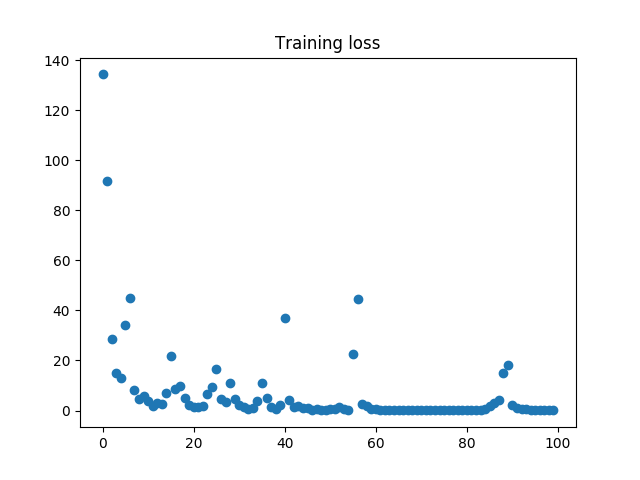
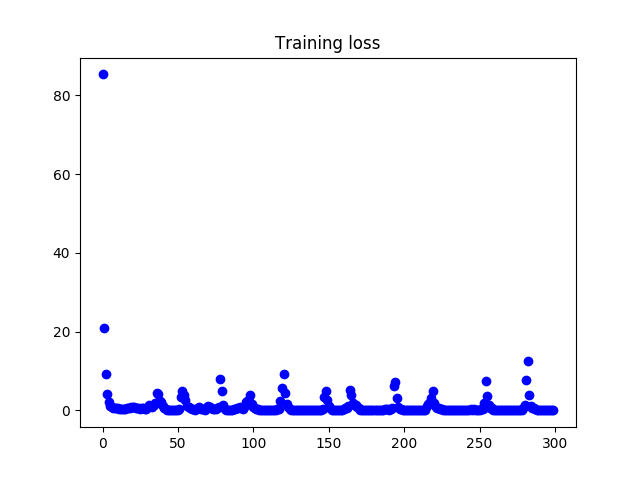
Tweaked normalization

diff --git a/Algorithms/ratings_net.py b/Algorithms/ratings_net.py
@@ -2,8 +2,8 @@
 import sys
 import tensorflow as tf
 import numpy as np
-from scipy.stats import invgauss
-from scipy.special import erfc
+# from scipy.stats import norm
+from scipy.special import erfc, erfcinv
 from util import loadJSONForNet as loadJSON
 from matplotlib import pyplot as plt
 
@@ -13,7 +13,7 @@ hidden_size = 300
 dish = "Brownies"
 input_file = "../dataProcessing/Processed Recipes/_" + dish + ".json"
 activation_fn = tf.nn.sigmoid
-max_epochs = 100
+max_epochs = 300
 batch_size = 20
 
 def undoLabelNormalization(all_data):
@@ -32,6 +32,14 @@ def undoLabelNormalization(all_data):
 		all_data[1 + 2 * i] = modified_labels
 	return mus, sigmas
 
+def renormalize(dists, mu, sigma):
+	for i in range(len(dists)):
+		dist = dists[i]
+		normalized = (dist - 1) / 4
+		normalized = -erfcinv(normalized * 2) * 2
+		normalized = normalized * sigma + mu
+		dists[i] = normalized
+
 def batches(tensors, size, random=True):
 	l = tensors[0].shape[0]
 	if random:
@@ -42,13 +50,15 @@ def batches(tensors, size, random=True):
 		batch_labels = tensors[1][size * batch: size * (batch + 1)]
 		yield batch_data, batch_labels
 
-def makeGraph(xs, ys, title, fn, setAxes=False):
+def makeGraph(xs, ys, title, fn, setAxes=False, plotLine=True):
 	plt.figure()
-	plt.scatter(xs, ys)
+	plt.scatter(xs, ys, c='b')
 	plt.title(title)
 	if setAxes:
-		plt.xlim(1, 5)
-		plt.ylim(1, 5)
+		plt.xlim(0.5, 5.5)
+		plt.ylim(0.5, 5.5)
+		if plotLine:
+			plt.plot([1, 5], [1, 5], 'r')
 	plt.savefig("../results/neural_net/" + dish + '/' + fn)
 
 def train(data, labels):
@@ -68,7 +78,7 @@ def train(data, labels):
 	y = tf.placeholder(tf.float32, [None, 1])
 
 	loss = tf.reduce_mean(tf.squared_difference(y, y_hat))
-	train_step = tf.train.AdamOptimizer(0.1, 0.1).minimize(loss)
+	train_step = tf.train.AdamOptimizer(0.01, 0.1).minimize(loss)
 
 	sess = tf.InteractiveSession()
 	tf.global_variables_initializer().run()
@@ -89,7 +99,7 @@ def train(data, labels):
 
 	return params
 
-def test(data, labels, params):
+def test(data, labels, params, mu, sigma):
 	M = data.shape[0]
 	N = data.shape[1]
 
@@ -111,14 +121,20 @@ def test(data, labels, params):
 
 	feed_dict = {x: data, y: labels, W1: params[0], b1: params[1], W2: params[2], b2: params[3]}
 	result, predictions = sess.run([loss, y_hat], feed_dict=feed_dict)
-	makeGraph(labels, predictions, "Labels vs. predictions", "testing", setAxes=True)
-	print "Test loss: %f" % result
+	makeGraph(labels, predictions, "Labels vs. predictions", "test1", setAxes=True)
+	# renormalize([predictions, labels], mu, sigma)
+	# makeGraph(labels, predictions, "Labels vs. predictions", "test2", setAxes=True)
+	print "Test loss: %f" % (result)
 
 if __name__ == '__main__':
 	all_data = list(loadJSON(input_file, [1, 1]))
+	# makeGraph(all_data[1], all_data[1], "testing", "before", setAxes=True)
 	mus, sigmas = undoLabelNormalization(all_data)
 	data_train, labels_train, data_dev, labels_dev, data_test, labels_test = all_data
+	# makeGraph(labels_train, labels_train, "testing", "middle", setAxes=True)
+	# renormalize(labels_train, mus[0], sigmas[0])
+	# makeGraph(labels_train, labels_train, "testing", "after", setAxes=True)
 
 	params = train(data_train, labels_train)
-	test(data_train, labels_train, params)
+	test(data_train, labels_train, params, mus[0], sigmas[0])
 
